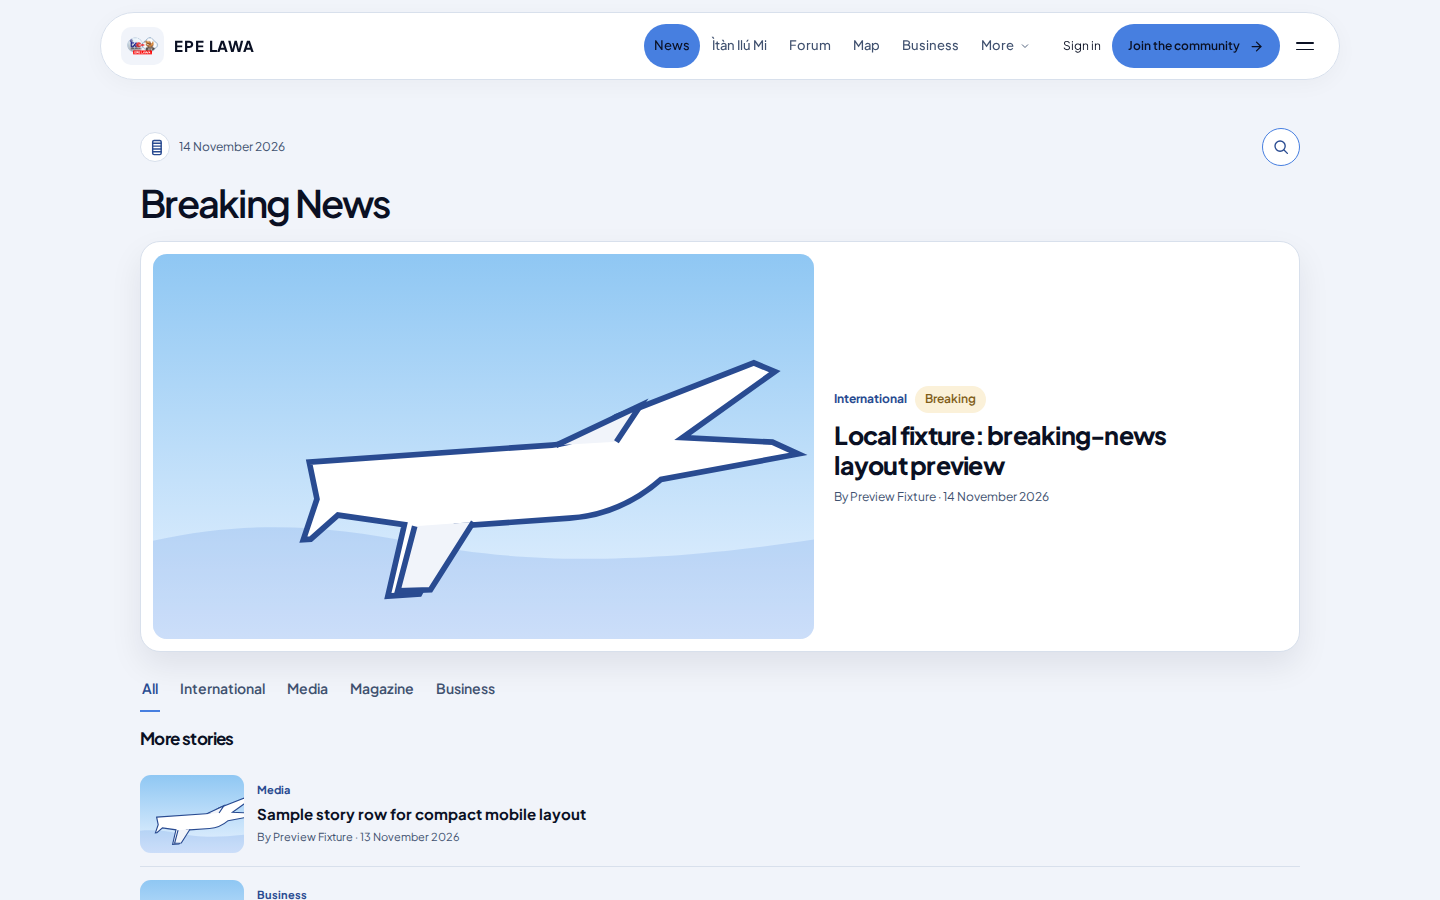
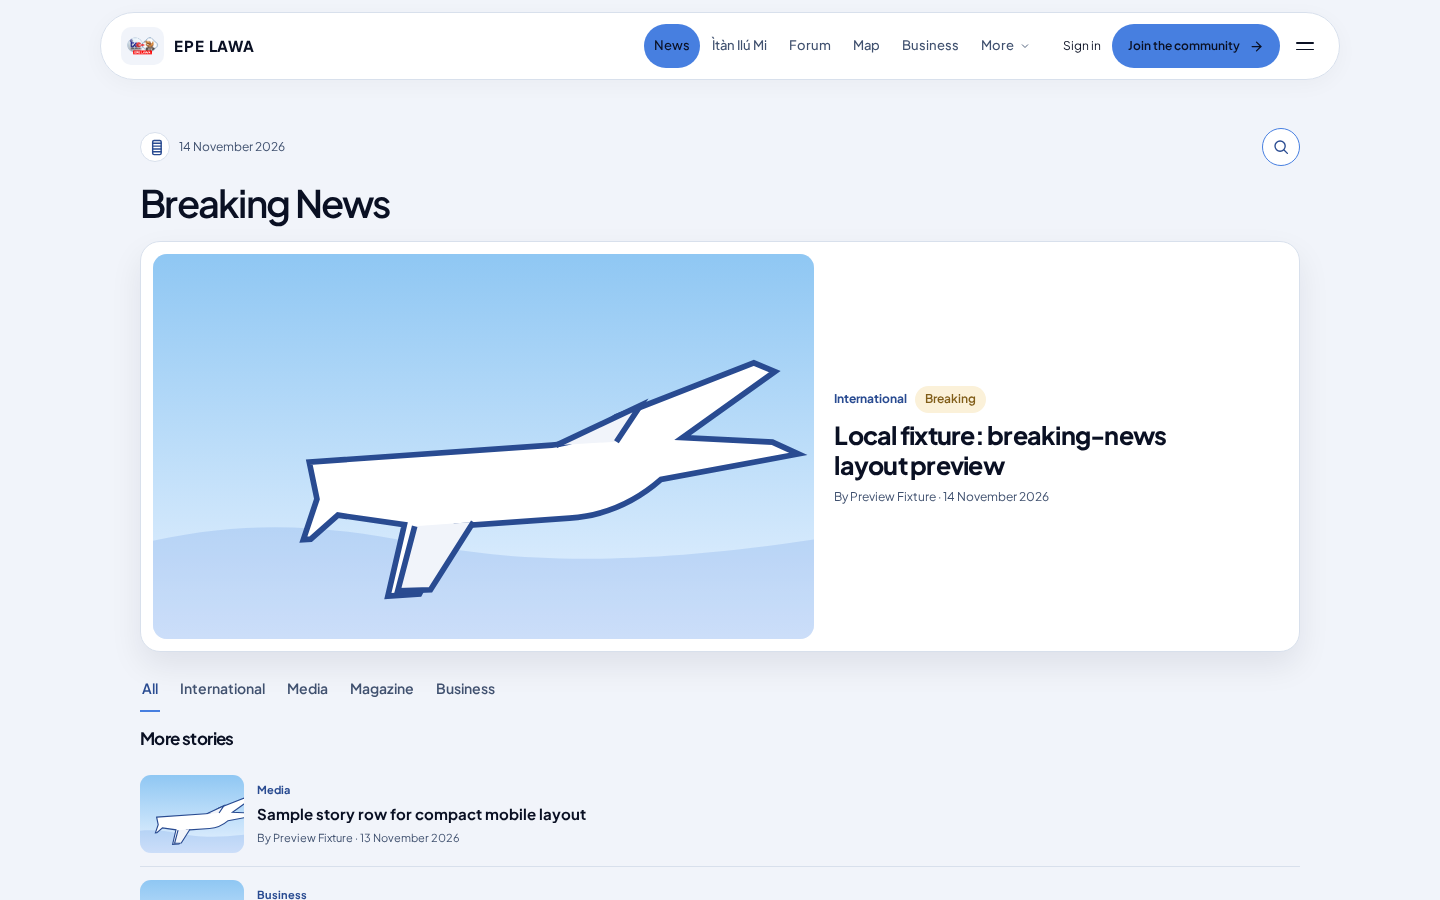
fix(news): round mobile reference surfaces

diff --git a/frontend/apps/main/app/news/news.module.css b/frontend/apps/main/app/news/news.module.css
@@ -93,7 +93,16 @@
 .commentSignInLink svg { width: 36px; height: 36px; padding: 9px; flex: 0 0 auto; }
 
 @media (max-width: 600px) {
-  .newsPage,.articlePage { padding-top: 30px; }
+  .newsPage,.articlePage {
+    box-sizing: border-box;
+    gap: 16px;
+    margin-block: 16px 32px;
+    padding: 26px 12px 30px;
+    border: 1px solid hsl(var(--border));
+    border-radius: 32px;
+    background: hsl(var(--card));
+    box-shadow: 0 14px 38px rgba(10,16,35,.08);
+  }
 }
 
 @media (min-width: 900px) {
@@ -108,8 +117,8 @@
 @media (max-width: 520px) {
   .newsPage,.articlePage { gap: 13px; }
   .pageTitle { font-size: 25px; }
-  .featureCard { border-radius: 17px; }
-  .featureLink { margin: 8px 8px 0; border-radius: 11px; }
+  .featureCard { border-radius: 24px; }
+  .featureLink { margin: 8px 8px 0; border-radius: 16px; }
   .featureImage,.featureImageFallback { aspect-ratio: 1.8; }
   .leadCopy { gap: 5px; padding: 8px 10px 10px; }
   .featureTitle { font-size: 18px; line-height: 1.22; }
@@ -117,14 +126,14 @@
   .categoryList { gap: 14px; }
   .categoryLink { min-height: 40px; font-size: 12px; }
   .storyLink { grid-template-columns: 68px minmax(0,1fr); gap: 10px; min-height: 76px; padding-block: 8px; }
-  .storyThumbnail,.storyThumbnailFallback { width: 68px; height: 52px; border-radius: 8px; }
+  .storyThumbnail,.storyThumbnailFallback { width: 68px; height: 52px; border-radius: 12px; }
   .storyCategory { font-size: 10px; }
   .storyTitle { font-size: 13px; }
   .storyMeta { font-size: 10px; }
   .listHeading { font-size: 15px; }
   .article { gap: 13px; }
   .articleHero { gap: 10px; }
-  .articleHeroImage,.articleHeroFallback { border-radius: 13px; }
+  .articleHeroImage,.articleHeroFallback { border-radius: 16px; }
   .articleHeroCopy h1 { font-size: clamp(25px,7vw,31px); }
   .articleMetaBar { gap: 4px 9px; }
   .commentComposerPanel,.commentSignIn { padding: 8px; }

diff --git a/docs/handoffs/2026-11-14-news-reference-layout.md b/docs/handoffs/2026-11-14-news-reference-layout.md
@@ -2,26 +2,29 @@
 
 ## Done
 
-- Reworked the News listing to follow the owner-provided mobile reference: compact date/search row, clear “Breaking News” heading, one image-led lead story, simple category tabs and compact story rows.
-- Removed the non-reference filter controls and status panel. The accessible search icon remains because it is present in the reference.
+- Reworked the News listing to follow the owner-provided mobile reference: compact date/search row, clear “Breaking News” heading, one image-led lead story, simple category tabs and compact story rows. Removed the non-reference filter controls and status panel; the accessible search icon remains because it is present in the reference.
 - Hid the shared site masthead only on mobile News listing/article routes; desktop navigation remains visible. Article pages use a compact back/share row and image-first title layout. Comments remain sign-in gated.
-- Captured five responsive widths for both listing and article routes. See [`docs/screenshots/news-reference-layout/2026-11-14/README.md`](../screenshots/news-reference-layout/2026-11-14/README.md) and [`metrics.json`](../screenshots/news-reference-layout/2026-11-14/metrics.json).
-- Verified on Node 22.23.4 and pnpm 10.34.9: 15/15 focused Node tests passed; app TypeScript check passed; Next.js production build passed; `git diff --check` passed. Playwright metrics show zero horizontal overflow at all 10 captures, zero filter buttons on all five listing widths, the search form opening at all five listing widths, and the signed-out comment action present in all five article captures.
+- Increased reference-style rounding on mobile: the listing/article surface uses a 32px radius, the lead story card 24px, its image clip 16px, and the article hero image 16px. Desktop retains an open page canvas, a 20px lead card and a 14px image clip.
+- Captured five responsive widths for both listing and article routes. See [`docs/screenshots/news-reference-layout/2026-11-14/README.md`](../screenshots/news-reference-layout/2026-11-14/README.md) and [`metrics.json`](../screenshots/news-reference-layout/2026-11-14/metrics.json). All ten captures have no horizontal overflow; the listing has zero filter buttons and its search opens at all five widths, and the signed-out comment action is visible in all five article captures.
+- Verified with Node 22.23.4 and pnpm 10.34.9: 14/14 focused Node tests passed; app TypeScript check passed; Next.js production build passed; `git diff --check` passed. Screenshots use only the synthetic local story and a Playwright-fulfilled illustration, not production content.
+- PR #52 (Radio copy), #53 (Map location prompt) and #55 (member dashboard) were merged by ordinary CLI flow. The latest verified `main` SHA after those merges is `dd0b66615a7ef2c3a12e0977b7a212e9759bcced`.
 
-## Pending
+## Remaining
 
-- The owner has not provided an authorized live-news feed URL. Do not invent or link an external feed; the layout uses the existing published News data path.
-- Verify the exact GitHub PR head and hosted checks after publishing this branch.
+- The owner has not provided an authorized live-News feed URL. Do not invent or link an external feed; the layout continues to use the existing published-News data path.
+- Refresh PR #54 onto the latest `main`, publish this rounding correction and its updated screenshots, then attempt an ordinary merge. The correction must be on the PR head first.
+- Verify Production after any merge; Vercel deployment inspection is pending connector authorization.
 
 ## Blocked
 
-- Do not merge unless exact-head hosted checks are verifiably healthy through the ordinary merge path. If the check rollup remains inaccessible, leave the PR open and report the access blocker; do not bypass checks.
-- No production News feed source was configured or changed during this work.
+- GitHub hosted check-run and commit-status endpoints returned HTTP 403 for the previously published PR #54 head. Do not claim hosted checks passed; recheck the exact new head after pushing, and let the ordinary merge path enforce repository rules. Never bypass protections.
+- PR #50 must remain open until Production has the required `publication_status` columns on `programmes` and `episodes`.
+- No production News feed or environment configuration was changed during this work.
 
 ## Resume point
 
-Refresh the News branch against the latest verified `main`, confirm the pushed PR head and hosted check results, then use an ordinary merge only if every required check is accessible and passing. Keep the live-feed source pending until the owner supplies an authorized URL.
+Rebase the News branch onto `dd0b66615a7ef2c3a12e0977b7a212e9759bcced` without touching the preserved `/workspace/EPE-LAWA` worktree; stage only the News source, tests, screenshots and handoff; push the updated PR #54; refresh its exact head/check status; then attempt a normal merge. Keep the live-feed source pending until the owner supplies an authorized URL.
 
 ## Local QA boundary
 
-The screenshots use only a synthetic story and a Playwright-fulfilled illustration. The local app used dummy Supabase values and the loopback-only read-only fixture at `127.0.0.1:54322`; the browser route guard aborted requests to all other hosts. No real member records, production content, secrets, or Production environment settings were read or changed.
+The app preview used dummy Supabase values and the read-only loopback fixture at `https://127.0.0.1:54322`. The browser route guard allowed loopback app/mock traffic and fulfilled the illustrative image from the synthetic `news-fixture.local` route; other hosts were aborted. No real member records, production content, secrets, or Production environment settings were read or changed.

diff --git a/docs/screenshots/news-reference-layout/2026-11-14/README.md b/docs/screenshots/news-reference-layout/2026-11-14/README.md
@@ -24,6 +24,8 @@ These screenshots verify the mobile-first News listing and article layout agains
 
 [metrics.json](metrics.json) records the measured widths and key UI checks. All 10 screenshots have `documentWidth === viewportWidth` (no horizontal overflow). The listing has 0 filter buttons at all five widths and the accessible headline search opens; the signed-out comment action is present in all five article captures. The shared navigation remains on desktop and is hidden only on mobile News listing/article routes to match the reference.
 
+The mobile listing and article surfaces now use a 32px outer radius; the lead story card uses 24px, its image is clipped to a 16px radius, and the article hero image uses 16px. Desktop keeps the open page canvas, a 20px lead-card radius and a 14px image clip. The values are recorded per width in `metrics.json`.
+
 ## Fixture and network boundary
 
 The app preview used dummy Supabase values and the read-only loopback mock at `https://127.0.0.1:54322`. The illustrative cover image was fulfilled by Playwright from the `news-fixture.local` route. The route guard allowed only loopback app/mock traffic and that synthetic image route, aborting all other hosts. No production News, member data, secrets, or remote media were used.
